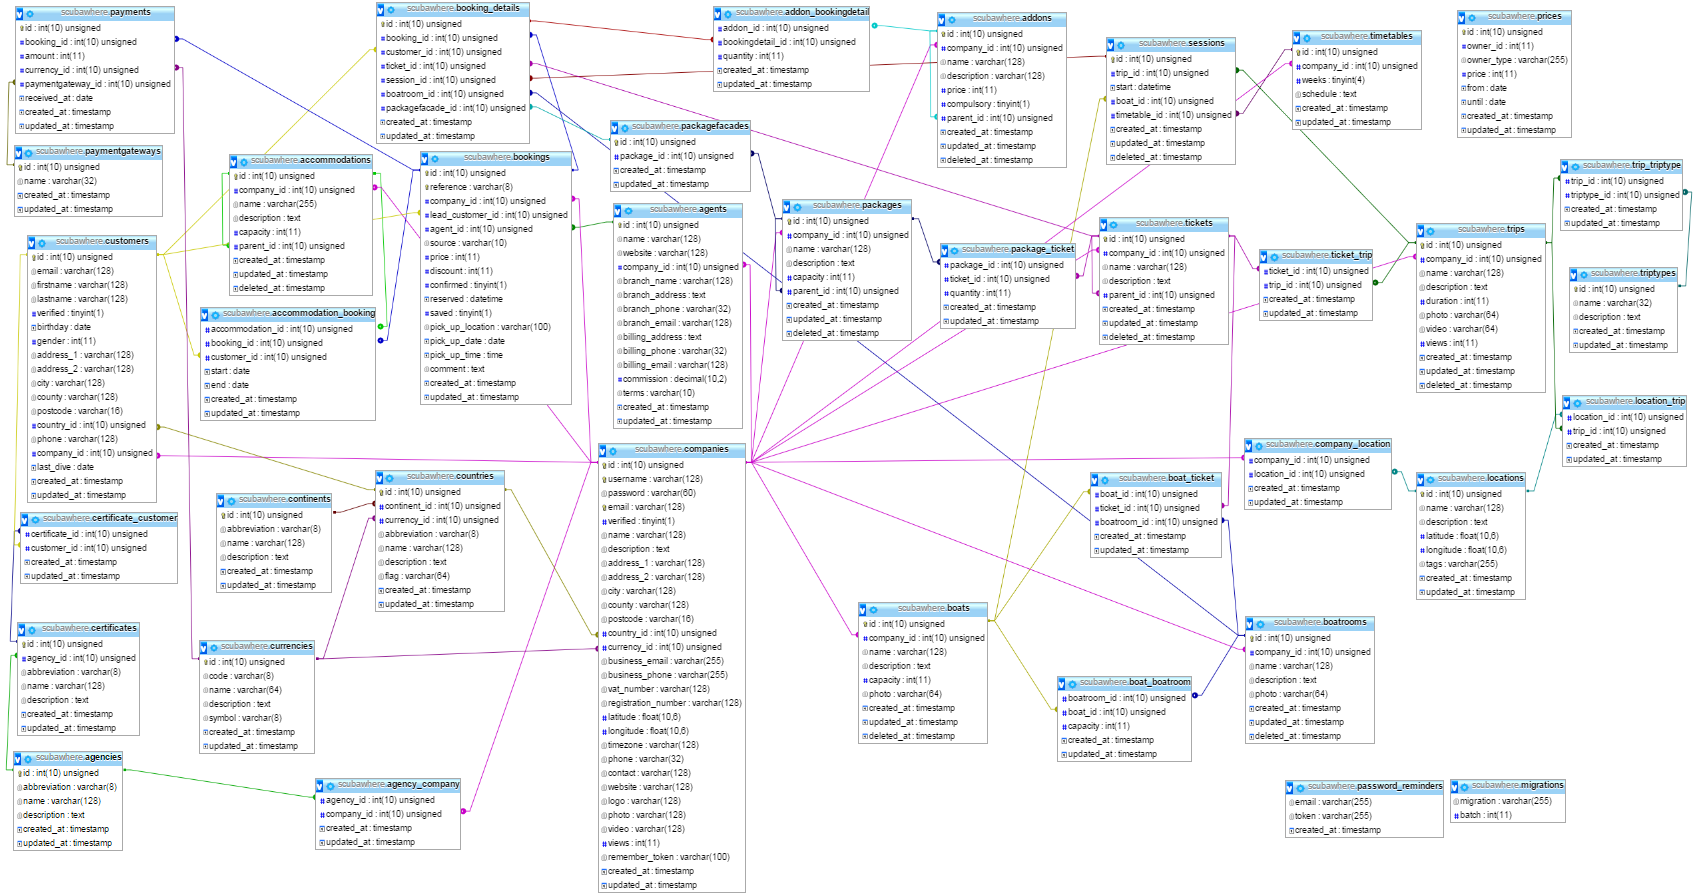
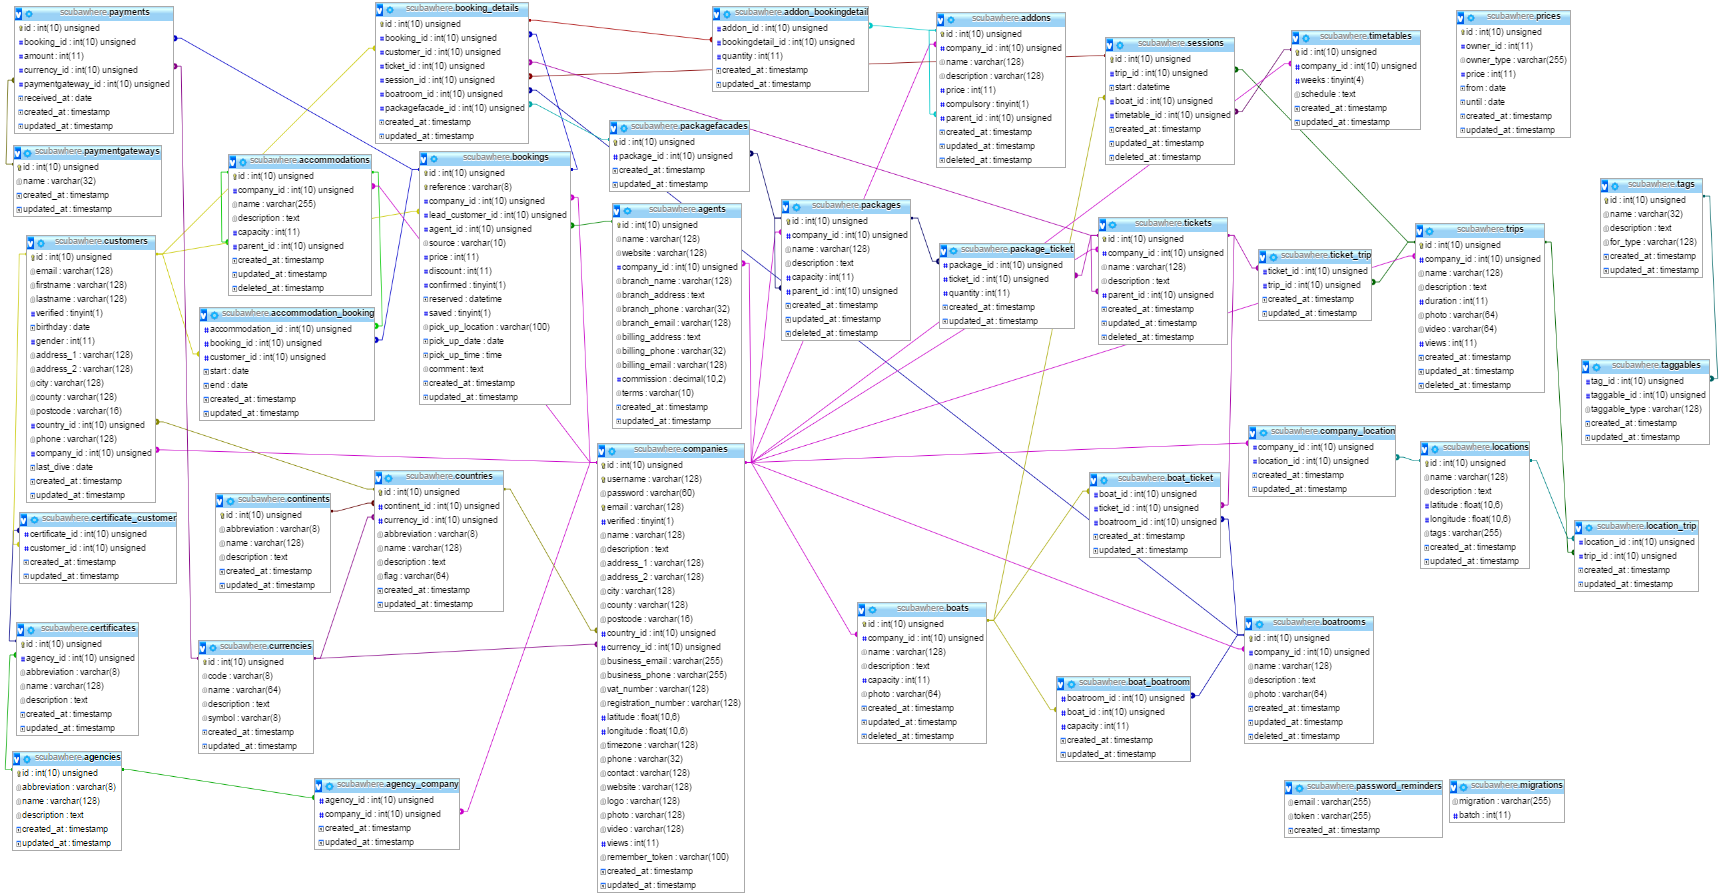
Add tags to locations
Tags can now be selected when creating a new location and they are also consequently displayed in each locations' modal window.

[skip ci]

diff --git a/public_html/dashboard/tabs/locations/js/script.js b/public_html/dashboard/tabs/locations/js/script.js
@@ -4,11 +4,6 @@ var gmap = {},
 window.sw.latitudeInput  = $('#newMarkerLatitude');
 window.sw.longitudeInput = $('#newMarkerLongitude');
 
-Handlebars.registerHelper('renderTags', function(tags) {
-	// Do something
-	return '-';
-});
-
 getToken();
 
 $(function() {
@@ -59,6 +54,10 @@ function initialise() {
 				google.maps.event.addListener(marker, 'click', existingMarkerClick);
 			});
 		});
+	});
+
+	Place.tags(function(data) {
+		window.tags = _.indexBy(data, 'id');
 	});
 
 
@@ -218,9 +217,14 @@ function initialise() {
 			$(event.target).find('[type=submit]').attr('value', 'Success!').css('background-color', '#2ECC40');
 			$('#add-location-loader').remove();
 
-			var location = params;
+			var location = $.extend(true, {}, params);
 			location.id = data.id;
 			delete location._token;
+
+			location.tags = [];
+			_.each(params.tags, function(tag_id) {
+				location.tags.push( window.tags[tag_id] );
+			});
 
 			// Create marker
 			var markerOptions = {
@@ -249,6 +253,19 @@ function initialise() {
 			$('#modalWindows .close-reveal-modal').click();
 
 			pageMssg(data.status, true);
+		}, function error(xhr) {
+			var data = JSON.parse(xhr.responseText);
+			var html = '';
+
+			_.each(data.errors, function(error) {
+				html += '<div class="alert alert-danger">' + error + '</div>';
+			});
+
+			$('#create-location-form').find('.alert').remove();
+			$('#create-location-form').prepend(html);
+
+			$(event.target).find('[type=submit]').prop('disabled', false);
+			$(event.target).find('.loader').remove();
 		});
 	});
 }
@@ -349,7 +366,7 @@ function renderLocations() {
 	_.each(markerArray, function(marker) {
 		setTimeout(function() {
 			marker.setMap(gmap);
-		}, i * 200);
+		}, i * 150);
 		i++;
 	});
 
@@ -375,7 +392,7 @@ function renderAttachedLocations() {
 	_.each(markerArray, function(marker) {
 		setTimeout(function() {
 			marker.setMap(gmap);
-		}, i * 200);
+		}, i * 150); // Must possibly be reduced to 100, depending on how many locations an operator actually uses
 		i++;
 	});
 
@@ -460,11 +477,12 @@ function showModalWindow(markerObject) {
 		});
 	}
 	else {
-		// Create the modal window from location-template
+		// Create the modal window from create-location-template
 		if(!window.sw.newLocationTemplate) window.sw.newLocationTemplate = Handlebars.compile( $("#new-location-template").html() );
 
-		markerObject.latitude = Math.round(markerObject.latitude * 1000000) / 1000000;
-		markerObject.longitude = Math.round(markerObject.longitude * 1000000) / 1000000;
+		markerObject.latitude       = Math.round(markerObject.latitude * 1000000) / 1000000;
+		markerObject.longitude      = Math.round(markerObject.longitude * 1000000) / 1000000;
+		markerObject.available_tags = window.tags;
 
 		$('#modalWindows')
 		.append( window.sw.newLocationTemplate(markerObject) ) // Create the modal
@@ -484,4 +502,8 @@ function showModalWindow(markerObject) {
 
 		CKEDITOR.replace( 'description' );
 	}
+}
+
+function changeParent(self) {
+	$(self).parent().toggleClass('checked');
 }

diff --git a/public_html/dashboard/js/Controllers/Location.js b/public_html/dashboard/js/Controllers/Location.js
@@ -27,6 +27,10 @@ var Place = {
 		});
 	},
 
+	tags : function(handleData) {
+		$.get("/api/location/tags", handleData);
+	},
+
 	//Params:
 	// @param string name        A name for the location
 	// @param string description A description for the location (optional)
@@ -35,9 +39,13 @@ var Place = {
 	// @param string tags        Tags for the location (optional)
 
 	//Note: all created locations are available to all companies
-	create: function(params, handleData){
-		$.post("/company/add-location", params).done(function(data){
-			handleData(data);
+	create: function(params, handleData, errorFn) {
+		$.ajax({
+			type: "POST",
+			url: "/company/add-location",
+			data: params,
+			success: handleData,
+			error: errorFn
 		});
 	},
 

diff --git a/public_html/dashboard/tabs/locations/index.php b/public_html/dashboard/tabs/locations/index.php
@@ -115,7 +115,16 @@
 				<h4>Description</h4>
 				<p>{{{description}}}</p>
 				<h4>Tags</h4>
-				<p>{{renderTags tags}}</p>
+				{{#each tags}}
+					<div style="overflow: auto;">
+						<div class="tag"><strong>{{name}}</strong></div>
+					</div>
+				{{else}}
+					<h5 class="text-center text-muted" style="margin-bottom: 2em;">
+						<img src="/common/img/lightsaber.png" style="margin-top: -1em; margin-left: -2em;">
+						These aren't the tags you are looking for&#8230; <!-- &#8230; is an ellipsis (...) -->
+					</h5>
+				{{/each}}
 
 				<form>
 					{{#if attached}}
@@ -138,17 +147,23 @@
 						<input type="text" name="name" id="new-location-name" />
 					</div>
 					<div class="form-row">
-						Lat <input type="number" name="latitude" step="0.000001" min="-90" max="90" style="width: 150px" value="{{latitude}}" />
-						Long <input type="number" name="longitude" step="0.000001" min="-180" max="180" style="width: 150px" value="{{longitude}}" />
-					</div>
-					<div class="form-row">
 						<label class="field-label">Description</label>
 						<textarea name="description" id="description"></textarea>
 					</div>
 					<div class="form-row">
-						<label class="field-label">Tags &nbsp; <small>(comma-separated)</small></label>
-						<input type="text" name="tags" />
+						<div class="field-label">Tags</div>
+						<div style="overflow: auto;">
+							{{#each available_tags}}
+								<label class="tag">
+									<input type="checkbox" name="tags[]" value="{{id}}" onchange="changeParent(this)">
+									<strong>{{name}}</strong>
+								</label>
+							{{/each}}
+						</div>
 					</div>
+
+					<input type="hidden" name="latitude" value="{{latitude}}" />
+					<input type="hidden" name="longitude" value="{{longitude}}" />
 
 					<div style="margin-top: 1em; text-align: right">
 						<a class="close-modal" title="Abort" style="margin-right: 2em;">Cancel</a>

diff --git a/app/controllers/CompanyController.php b/app/controllers/CompanyController.php
@@ -97,6 +97,7 @@ class CompanyController extends Controller {
 
 			$locations = Location::whereBetween('latitude',  array($north, $south))
 			                     ->whereBetween('longitude', array($west, $east))
+			                     ->with('tags')
 			                     ->get();
 		}
 		else
@@ -119,6 +120,7 @@ class CompanyController extends Controller {
 			$timer = microtime(true);
 			$locations = DB::table('locations')
 			                 ->select(DB::raw('*, ((ACOS(SIN('.$lat.' * PI() / 180) * SIN(latitude * PI() / 180) + COS('.$lat.' * PI() / 180) * COS(latitude * PI() / 180) * COS(('.$lon.' - longitude) * PI() / 180)) * 180 / PI()) * 60 * 1.1515) AS distance'))
+			                 ->with('tags')
 			                 ->orderBy('distance', 'asc')
 			                 ->take($limit)
 			                 ->get();
@@ -133,13 +135,30 @@ class CompanyController extends Controller {
 
 	public function postAddLocation()
 	{
-		$data = Input::only('name', 'description', 'latitude', 'longitude', 'tags');
+		$data = Input::only('name', 'description', 'latitude', 'longitude');
+
+		$tags = Input::get('tags', false);
+		if( !$tags || empty($tags) )
+			$tags = false;
 
 		$location = new Location($data);
 
 		if( !$location->save() )
 		{
 			return Response::json( array('errors' => $location->errors()->all()), 406 ); // 406 Not Acceptable
+		}
+
+		// Sync tags
+		if($tags)
+		{
+			try
+			{
+				$location->tags()->sync($tags);
+			}
+			catch(Exeption $e)
+			{
+				return Response::json( array('errors' => array('Could not assign tags to location, \'tags\' array is propably erroneous.')), 400 ); // 400 Bad Request
+			}
 		}
 
 		// Automatically attach location to the company

diff --git a/app/models/Location.php b/app/models/Location.php
@@ -7,11 +7,10 @@ class Location extends Ardent {
 	protected $guarded = array('id', 'created_at', 'updated_at');
 
 	public static $rules = array(
-		'name' => 'required',
+		'name'        => 'required',
 		'description' => '',
-		'latitude' => 'required|numeric|between:-90,90',
-		'longitude' => 'required|numeric|between:-180,180',
-		'tags' => ''
+		'latitude'    => 'required|numeric|between:-90,90',
+		'longitude'   => 'required|numeric|between:-180,180',
 	);
 
 	public function beforeSave()
@@ -21,13 +20,15 @@ class Location extends Ardent {
 
 		if( isset($this->name) )
 			$this->name = Helper::sanitiseString($this->name);
-
-		if( isset($this->tags) )
-			$this->tags = Helper::sanitiseString($this->tags);
 	}
 
 	public function companies()
 	{
 		return $this->belongsToMany('Company')->withTimestamps();
+	}
+
+	public function tags()
+	{
+		return $this->morphToMany('Tag', 'taggable')->withTimestamps();
 	}
 }

diff --git a/app/controllers/LocationController.php b/app/controllers/LocationController.php
@@ -10,7 +10,12 @@ class LocationController extends Controller {
 
 	public function getAll()
 	{
-		return Auth::user()->locations()->get();
+		return Auth::user()->locations()->with('tags')->get();
+	}
+
+	public function getTags()
+	{
+		return Tag::where('for_type', 'Location')->orderBy('name')->get();
 	}
 
 	public function postAttach()

diff --git a/public_html/dashboard/tabs/trips/index.php b/public_html/dashboard/tabs/trips/index.php
@@ -67,7 +67,7 @@
 							{{#each available_tags}}
 								<label class="tag{{inArray id ../tags}}">
 									<input type="checkbox" name="tags[]" value="{{id}}"{{inArray id ../tags}} onchange="changeParent(this)">
-									<strong>{{name}}</strong><br>
+									<strong>{{name}}</strong>
 								</label>
 							{{/each}}
 						</div>

diff --git a/app/models/Tag.php b/app/models/Tag.php
@@ -23,4 +23,9 @@ class Tag extends Ardent {
 	{
 		return $this->morphedByMany('Trip', 'taggable')->withTimestamps();
 	}
+
+	public function locations()
+	{
+		return $this->morphedByMany('Location', 'taggable')->withTimestamps();
+	}
 }
